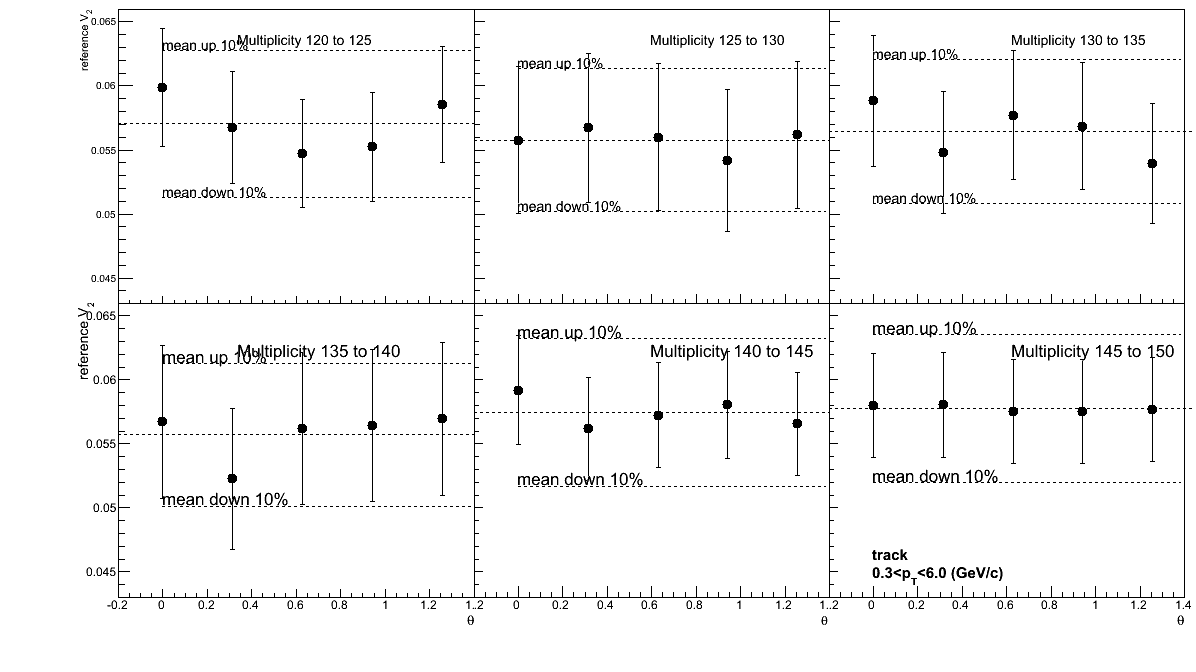
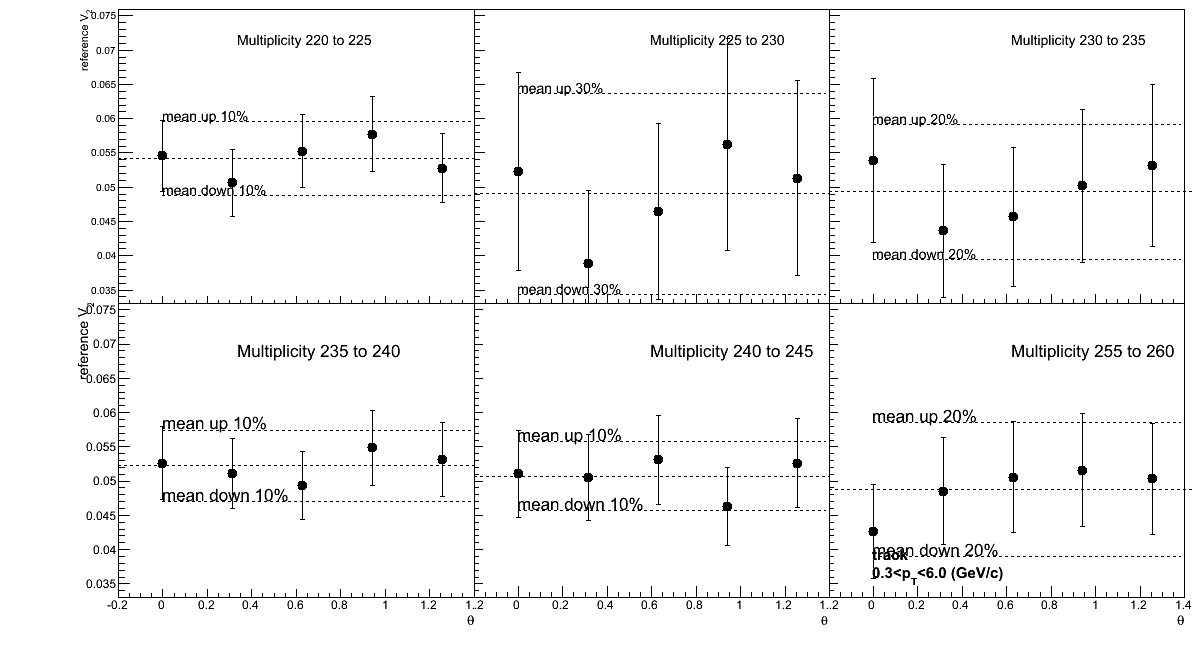
final bins 5

diff --git a/flow/LYZ/v2/tracknormcpt03to6/finalbins5/plotV2vstheta.C b/flow/LYZ/v2/tracknormcpt03to6/finalbins5/plotV2vstheta.C
@@ -8,7 +8,7 @@ void plotV2vstheta(){
         const int nbin[ntotbin] = {6,7,7,8,8};
         const int trkpointmin[ntotbin] = {120,150,185,220,260};
         const int trkpointmax[ntotbin] = {150,185,220,260,300};
-        int trkbin=0;
+        int trkbin=3;
 	int xbin=0;
         c1 = new TCanvas("c1"," ",1200,700);
         makeMultiPanelCanvas(c1,3,2,0,0,0.25,0.2,0.03);
@@ -24,8 +24,8 @@ void plotV2vstheta(){
         hFrame->GetXaxis()->SetTitleSize(0.04);
         hFrame->GetYaxis()->SetTitleSize(0.04);
         hFrame->GetXaxis()->SetRangeUser(-0.2,1.4);
-        hFrame->SetMinimum(0.043);
-        hFrame->SetMaximum(0.066);
+        hFrame->SetMinimum(0.033);
+        hFrame->SetMaximum(0.076);
         for(int ibin=0;ibin<nbin[trkbin]; ibin++){
 	if(isSum==0){
 	    f = TFile::Open(Form("M%d%d/mergedV_Prod.root",trkpointmax[trkbin],trkpointmin[trkbin]));
